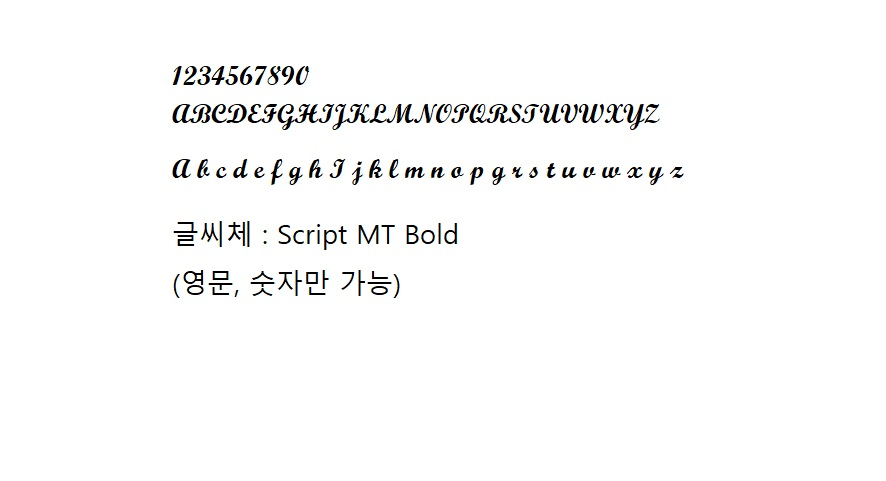
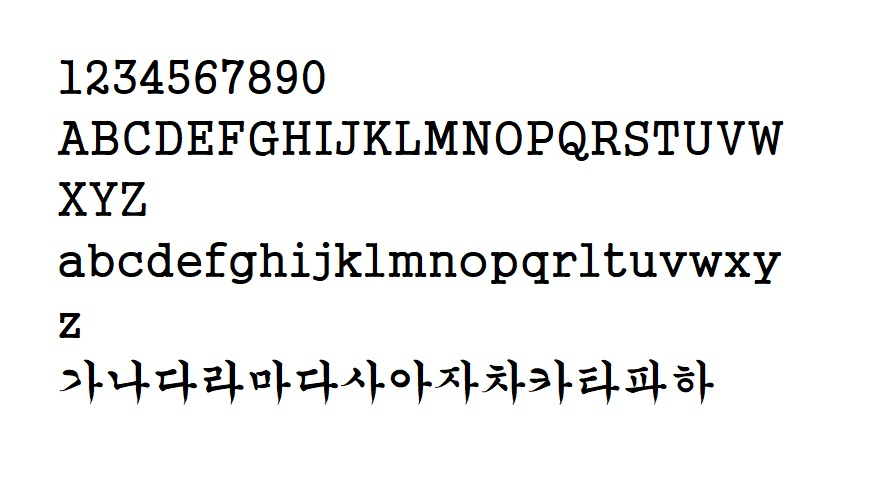
[김수진] 폰트 추가, 폰트 크기 지정, 폰트 이미지 변경

diff --git a/src/jewely_demo/OrderBasket.java b/src/jewely_demo/OrderBasket.java
@@ -26,10 +26,10 @@ public class OrderBasket extends JFrame {
     String finalCarat = null;
     String finalrSize = null;
     int finalPrice = 0;
-    Font fontstyle1 = new Font("궁서", Font.BOLD, 10);
-    Font fontstyle2 = new Font("바탕", Font.BOLD, 10);
-    String font1name = fontstyle1.getFontName();
-    String font2name = fontstyle2.getFontName();
+    Font fontstyle1 = new Font("궁서", Font.BOLD, 30);
+    Font fontstyle2 = new Font("바탕", Font.BOLD, 30);
+    Font fontstyle3 = new Font("굴림",Font.BOLD,30);
+
 
 
 
@@ -65,10 +65,9 @@ public class OrderBasket extends JFrame {
     JLabel stonetxtLabel;
     JLabel caratLabel;
     JLabel colortxtLabel;
-//    JLabel stonePLabel;
-//    JLabel colorPLabel;
+
     JLabel designtxtLabel;
-//    JLabel designPLabel;
+
 
 
 
@@ -94,9 +93,11 @@ public class OrderBasket extends JFrame {
 
     //하단에 위치한 bottomPanel에  폰트 패널과 주문 패널을 추가, 각 패널에 폰트 버튼과 주문버튼 추가
     JPanel bottomPanel = new JPanel(new GridLayout(2, 1));
-    JPanel orderPanel = new JPanel();
+    JPanel orderPanel = new JPanel(new GridLayout(1 ,2));
     JLabel totalpricePanel;
     RoundedButton Order = new RoundedButton("주문하기");
+    RoundedButton Main = new RoundedButton("홈으로 돌아가기");
+
 
 
     public OrderBasket(String finalDesign, String finalColor, String finalStone, String finalCarat, int finalPrice) {
@@ -247,7 +248,8 @@ public class OrderBasket extends JFrame {
 
         bottomPanel.add(totalpricePanel);
         bottomPanel.add(orderPanel);
-        orderPanel.add(Order, BorderLayout.CENTER);
+        orderPanel.add(Order, BorderLayout.EAST);
+        orderPanel.add(Main, BorderLayout.WEST);
 
         sizecombo.addActionListener(new ActionListener() {
             @Override
@@ -264,6 +266,7 @@ public class OrderBasket extends JFrame {
             public void actionPerformed(ActionEvent e) {
                 //font1(궁서)이 눌릴때
                 rletterTxtField.setFont(fontstyle1);
+
             }
         });
         font2.addActionListener(new ActionListener() {
@@ -271,26 +274,28 @@ public class OrderBasket extends JFrame {
             public void actionPerformed(ActionEvent e) {
                 rletterTxtField.setFont(fontstyle2);
 
+
+            }
+        });
+
+        font3.addActionListener(new ActionListener() {
+            @Override
+            public void actionPerformed(ActionEvent e) {
+                rletterTxtField.setFont(fontstyle3);
             }
         });
         Order.addActionListener(new ActionListener() {
             @Override
             public void actionPerformed(ActionEvent e) {
                 String letter = rletterTxtField.getText().trim();
-                if (!letter.equals("각인 내용")&&font1name.equals("궁서")) {
+
+                if (!letter.equals("각인 내용")) {
                     JOptionPane.showMessageDialog(null, "주문자 반지 :[원석 (" + finalStone + "), 디자인(" + finalDesign
                             + "), 색상(" + finalColor + "), 반지 호수(" + finalrSize + ")]\n각인 내용 : ["
-                            + letter + "]\n 폰트 명 : [" + fontstyle1.getFontName()
-                            + "]\n총 가격 :" + finalPrice, "주문 완료", JOptionPane.INFORMATION_MESSAGE);
+                            + letter + "]\n 총 가격 :" + finalPrice, "주문 완료", JOptionPane.INFORMATION_MESSAGE);
                     setVisible(true);
                 }
-                if (!letter.equals("각인 내용")&&font2name.equals("바탕")) {
-                    JOptionPane.showMessageDialog(null, "주문자 반지 :[원석 (" + finalStone + "), 디자인(" + finalDesign
-                            + "), 색상(" + finalColor + "), 반지 호수(" + finalrSize + ")]\n각인 내용 : ["
-                            + letter + "]\n 폰트 명 : [" + fontstyle2.getFontName()
-                            + "]\n총 가격 :" + finalPrice, "주문 완료", JOptionPane.INFORMATION_MESSAGE);
-                    setVisible(true);
-                }
+
                 if (letter.equals("각인 내용"))
                     JOptionPane.showMessageDialog(null, "주문자 반지 :[원석 (" + finalStone + "), 디자인(" + finalDesign
                             + "), 색상(" + finalColor + "), 반지 호수(" + finalrSize + ")]\n총 가격 :" + finalPrice + "원입니다.", "주문 완료", JOptionPane.INFORMATION_MESSAGE);
@@ -299,12 +304,20 @@ public class OrderBasket extends JFrame {
 
             }
         });
+        Main.addActionListener(new ActionListener() {
+            @Override
+            public void actionPerformed(ActionEvent e) {
+                GUIMain main = new GUIMain();
+                setVisible(false);
+            }
+        });
 
 
         FocusEvent();
 
         fontIcon(font1, fontimage1);
         fontIcon(font2, fontimage2);
+        fontIcon(font3, fontimage3);
 //        obFrame.add(TopPanel);
 //        obFrame.add(textPanel);
 //        obFrame.add(bottomPanel);
@@ -327,7 +340,7 @@ public class OrderBasket extends JFrame {
     void fontIcon(JButton j, ImageIcon i) {
         Image img;
         img = i.getImage();
-        Image changeImg = img.getScaledInstance(400, 400, Image.SCALE_SMOOTH);
+        Image changeImg = img.getScaledInstance(510, 300, Image.SCALE_SMOOTH);
         ImageIcon changeIcon = new ImageIcon(changeImg);
         j.setIcon(changeIcon);
 
